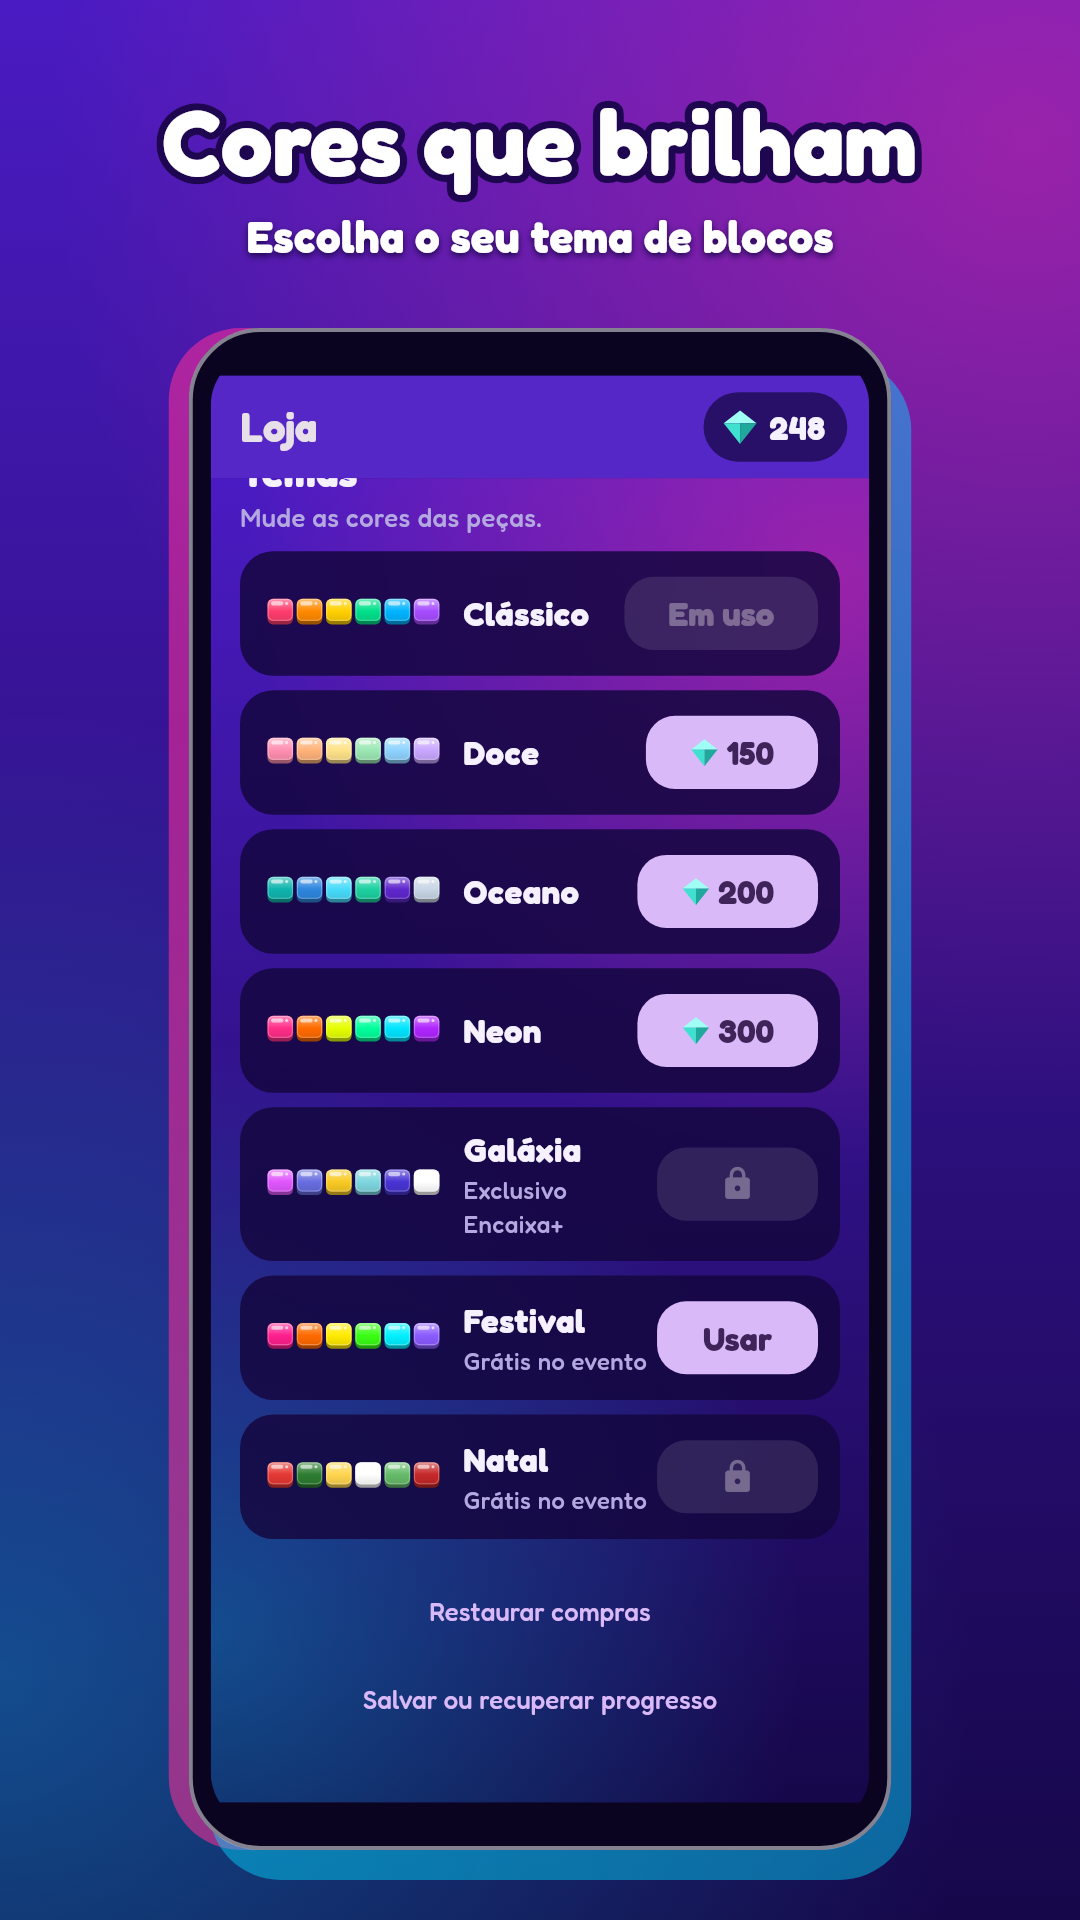
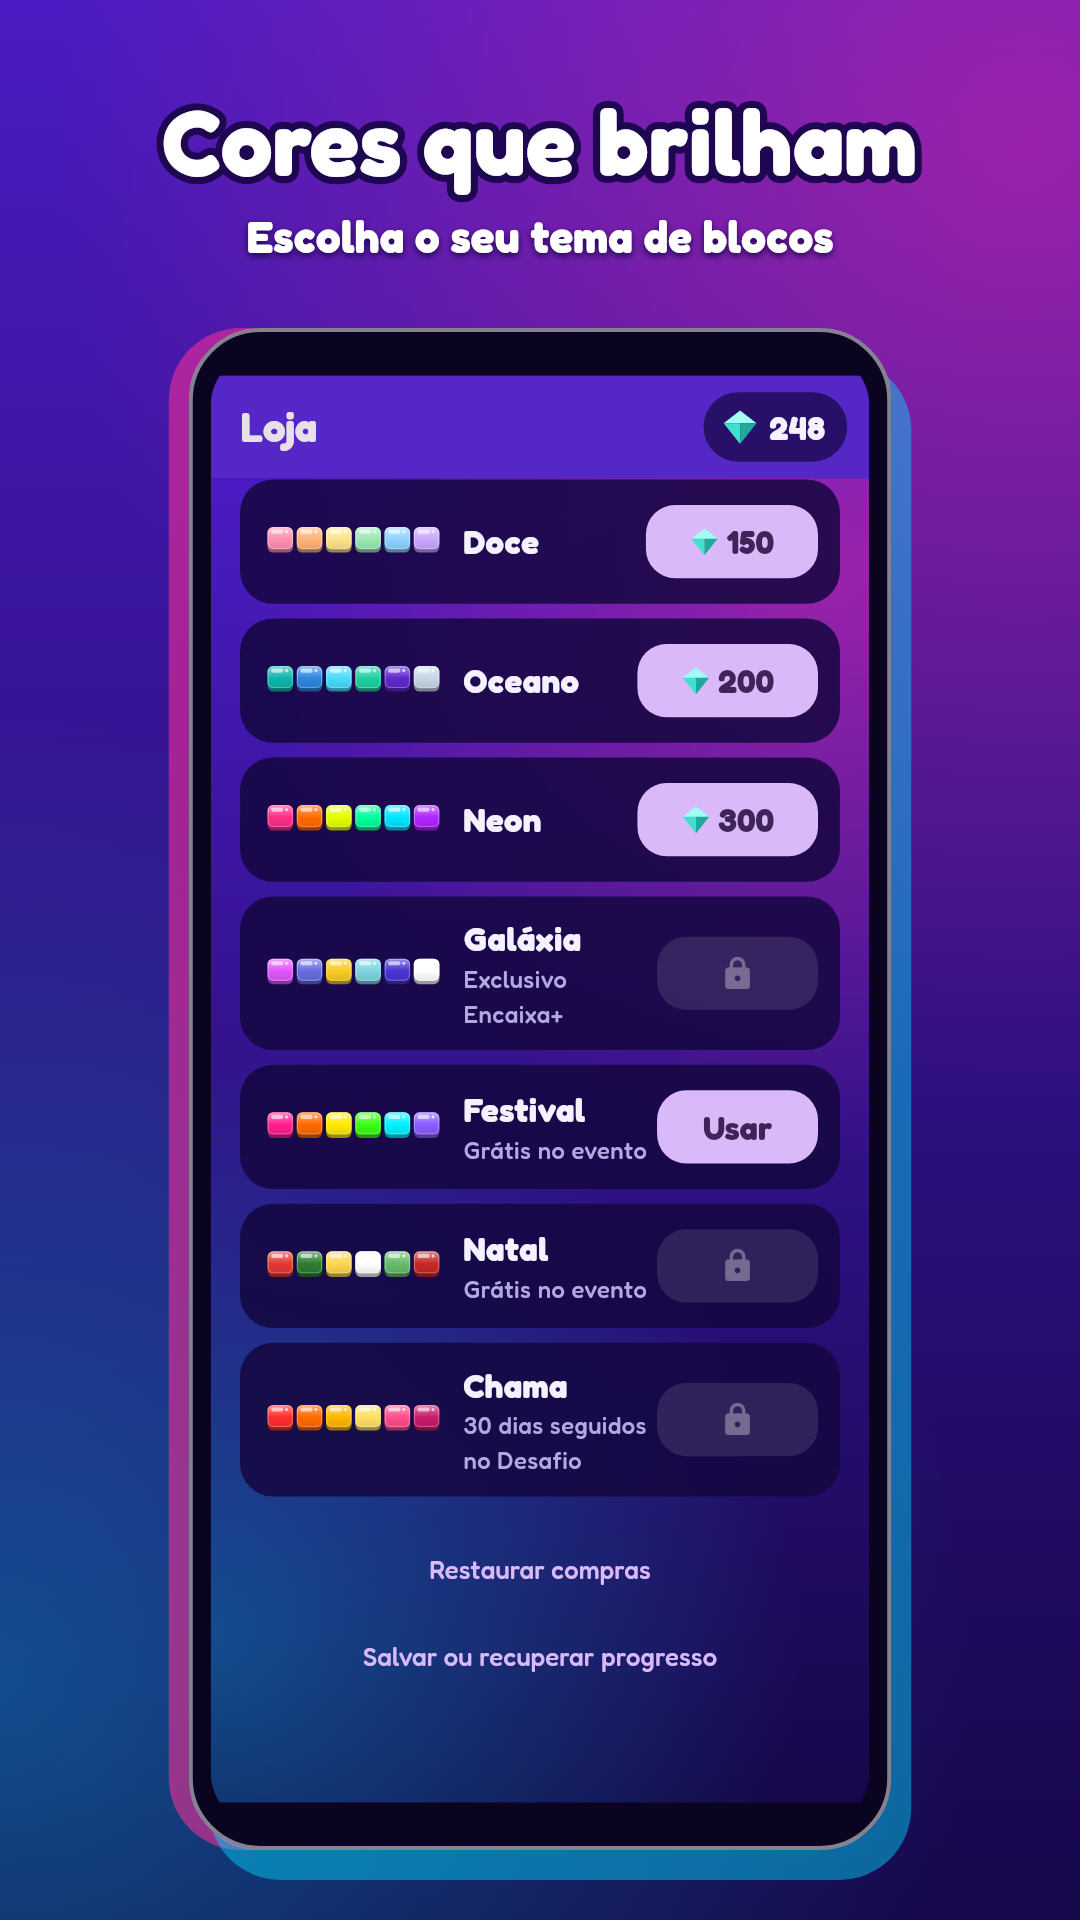
Sequência do Desafio com marcos: diálogo na chama, tema Chama aos 30 dias
- Tocar na chama mostra 3/7/14/30 dias, prêmios e quanto falta
- 30 dias seguidos liberam o tema Chama para sempre (Loja mostra como prêmio)
- Resultado do Desafio avisa o marco; botões do topo compactos para caber em 320 dp com fonte grande
- versionCode 8
- Testes e capturas 24 e 25

Claude-Session: https://claude.ai/code/session_0113qfSKSdakLn1Fz3YtvNms

Changed region(s): [[0.2139, 0.25, 0.7944, 0.9062]]

diff --git a/app/lib/telas/inicio_tela.dart b/app/lib/telas/inicio_tela.dart
@@ -97,16 +97,28 @@ class _InicioTelaState extends State<InicioTela> {
                         Row(
                           children: [
                             if (p.assinante) const _Selo('Encaixa+'),
-                            if (p.sequencia(dia) > 0) ...[const SizedBox(width: 8), _Sequencia(p.sequencia(dia))],
+                            ...[
+                              const SizedBox(width: 8),
+                              _Sequencia(
+                                p.sequencia(dia),
+                                aoTocar: () => showDialog<void>(
+                                  context: context,
+                                  builder: (_) =>
+                                      _DialogoSequencia(dias: p.sequencia(dia), feitoHoje: p.desafioFeito == dia),
+                                ),
+                              ),
+                            ],
                             const Spacer(),
                             IconButton(
                               tooltip: 'Como jogar',
+                              visualDensity: VisualDensity.compact,
                               onPressed: () => _abrir(AjudaTela(servicos: servicos)),
                               icon: const Icon(Icons.help_rounded),
                             ),
                             _BotaoPresente(disponivel: p.presenteDeHoje(dia) > 0, aoTocar: () => _abrirPresente(dia)),
                             IconButton(
                               tooltip: p.somLigado ? 'Desligar som' : 'Ligar som',
+                              visualDensity: VisualDensity.compact,
                               onPressed: p.alternarSom,
                               icon: Icon(p.somLigado ? Icons.volume_up_rounded : Icons.volume_off_rounded),
                             ),
@@ -386,26 +398,117 @@ class _BlocosDeFundo extends CustomPainter {
 }
 
 class _Sequencia extends StatelessWidget {
-  const _Sequencia(this.dias);
+  const _Sequencia(this.dias, {required this.aoTocar});
 
   final int dias;
+  final VoidCallback aoTocar;
 
   @override
   Widget build(BuildContext context) => Tooltip(
     message: 'Dias seguidos no Desafio do dia',
-    child: Container(
-      padding: const EdgeInsets.fromLTRB(8, 4, 12, 4),
-      decoration: BoxDecoration(color: Cores.painel.withValues(alpha: 0.7), borderRadius: BorderRadius.circular(20)),
-      child: Row(
-        mainAxisSize: MainAxisSize.min,
-        children: [
-          Icon(Icons.local_fire_department_rounded, color: Cores.blocos[1], size: 20),
-          const SizedBox(width: 2),
-          Text('$dias', style: const TextStyle(fontSize: 18, fontWeight: FontWeight.w700)),
-        ],
+    child: GestureDetector(
+      onTap: aoTocar,
+      child: Container(
+        padding: const EdgeInsets.fromLTRB(8, 4, 12, 4),
+        decoration: BoxDecoration(color: Cores.painel.withValues(alpha: 0.7), borderRadius: BorderRadius.circular(20)),
+        child: Row(
+          mainAxisSize: MainAxisSize.min,
+          children: [
+            Icon(Icons.local_fire_department_rounded, color: Cores.blocos[1], size: 20),
+            const SizedBox(width: 2),
+            Text('$dias', style: const TextStyle(fontSize: 18, fontWeight: FontWeight.w700)),
+          ],
+        ),
       ),
     ),
   );
+}
+
+/// Marcos da sequência: o que já foi, quanto falta e o prêmio de cada um.
+class _DialogoSequencia extends StatelessWidget {
+  const _DialogoSequencia({required this.dias, required this.feitoHoje});
+
+  final int dias;
+  final bool feitoHoje;
+
+  @override
+  Widget build(BuildContext context) {
+    final proximo = proximoMarco(dias);
+    final chama = TemaDeBlocos.porId('chama');
+    return AlertDialog(
+      backgroundColor: Cores.painel,
+      scrollable: true,
+      title: const FittedBox(
+        fit: BoxFit.scaleDown,
+        child: Text('Sequência do Desafio', textAlign: TextAlign.center),
+      ),
+      content: Column(
+        mainAxisSize: MainAxisSize.min,
+        children: [
+          Row(
+            mainAxisAlignment: MainAxisAlignment.center,
+            children: [
+              Icon(Icons.local_fire_department_rounded, color: Cores.blocos[1], size: 34),
+              Text(
+                ' $dias ${dias == 1 ? 'dia' : 'dias'}',
+                style: const TextStyle(fontSize: 26, fontWeight: FontWeight.w700),
+              ),
+            ],
+          ),
+          const SizedBox(height: 4),
+          Text(
+            proximo == null
+                ? 'Todos os marcos conquistados!'
+                : (feitoHoje
+                      ? 'Hoje já valeu. Faltam ${proximo - dias} para o próximo prêmio.'
+                      : 'Jogue o Desafio de hoje: faltam ${proximo - dias} para o próximo prêmio.'),
+            textAlign: TextAlign.center,
+            style: const TextStyle(fontSize: 14, height: 1.3),
+          ),
+          const SizedBox(height: 12),
+          for (final m in marcosDaSequencia)
+            Container(
+              margin: const EdgeInsets.only(bottom: 6),
+              padding: const EdgeInsets.symmetric(horizontal: 12, vertical: 8),
+              decoration: BoxDecoration(
+                color: dias >= m ? Cores.blocos[3].withValues(alpha: 0.3) : Cores.casa,
+                borderRadius: BorderRadius.circular(14),
+                border: m == proximo ? Border.all(color: Cores.ouro, width: 2) : null,
+              ),
+              child: Row(
+                children: [
+                  Icon(dias >= m ? Icons.check_circle_rounded : Icons.lock_outline_rounded, size: 22),
+                  const SizedBox(width: 8),
+                  Expanded(
+                    child: FittedBox(
+                      fit: BoxFit.scaleDown,
+                      alignment: Alignment.centerLeft,
+                      child: Text('$m dias', style: const TextStyle(fontSize: 16, fontWeight: FontWeight.w700)),
+                    ),
+                  ),
+                  const SizedBox(width: 8),
+                  const IconeGema(tamanho: 16),
+                  Text(' +${premioDaSequencia(m)}', style: const TextStyle(fontSize: 16, fontWeight: FontWeight.w700)),
+                  if (m == chama.marcoDias) ...[
+                    const SizedBox(width: 6),
+                    const Icon(Icons.palette_rounded, size: 20, color: Cores.ouro),
+                    const Text(' Tema', style: TextStyle(fontSize: 13)),
+                  ],
+                ],
+              ),
+            ),
+          const SizedBox(height: 4),
+          const Text(
+            'Pulou um dia? Dá para recuperar a sequência uma vez por semana.',
+            textAlign: TextAlign.center,
+            style: TextStyle(fontSize: 12, color: Cores.textoFraco),
+          ),
+        ],
+      ),
+      actionsAlignment: MainAxisAlignment.center,
+      actions: [TextButton(onPressed: () => Navigator.of(context).pop(), child: const Text('Fechar'))],
+    );
+  }
 }
 
 /// As 3 missões do dia e o baú.
@@ -621,6 +724,7 @@ class _BotaoPresente extends StatelessWidget {
   @override
   Widget build(BuildContext context) => IconButton(
     tooltip: 'Presente do dia',
+    visualDensity: VisualDensity.compact,
     onPressed: aoTocar,
     icon: Badge(
       isLabelVisible: disponivel,

diff --git a/app/test/sequencia_test.dart b/app/test/sequencia_test.dart
@@ -1,0 +1,56 @@
+import 'package:encaixa/jogo/missoes.dart';
+import 'package:encaixa/jogo/temas.dart';
+import 'package:flutter_test/flutter_test.dart';
+import 'package:material_ui/material_ui.dart';
+
+import 'suporte/capturas.dart';
+
+void main() {
+  setUpAll(carregarFontes);
+
+  test('próximo marco da sequência', () {
+    expect(proximoMarco(0), 3);
+    expect(proximoMarco(3), 7);
+    expect(proximoMarco(13), 14);
+    expect(proximoMarco(29), 30);
+    expect(proximoMarco(30), isNull);
+  });
+
+  test('30 dias seguidos liberam o tema Chama para sempre; antes disso ele está bloqueado', () async {
+    final s = await servicosDeTeste(valores: {'sequencia': 29, 'desafioFeito': 20261111});
+    final p = s.progresso;
+    final chama = TemaDeBlocos.porId('chama');
+    expect(chama.marcoDias, 30);
+    expect(p.temTema(chama), isFalse);
+    final gemas = await p.concluirDesafio(20261112, 500);
+    expect(gemas, 5 + 60, reason: '5 do desafio + 60 do marco de 30 dias');
+    expect(p.sequencia(20261112), 30);
+    expect(p.temTema(chama), isTrue);
+    // dias depois, sem jogar, o tema continua
+    expect(p.sequencia(20261120), 0);
+    expect(p.temTema(chama), isTrue);
+  });
+
+  test('marco intermediário (7 dias) paga gemas mas não libera o tema', () async {
+    final s = await servicosDeTeste(valores: {'sequencia': 6, 'desafioFeito': 20261111});
+    final gemas = await s.progresso.concluirDesafio(20261112, 100);
+    expect(gemas, 5 + 15);
+    expect(s.progresso.temTema(TemaDeBlocos.porId('chama')), isFalse);
+  });
+
+  for (final (fonte, nome) in [(1.0, '24-sequencia'), (1.5, '25-sequencia-fonte-grande')]) {
+    testWidgets('diálogo da sequência ($nome)', (tester) async {
+      telaDeCelular(tester, tamanho: const Size(360, 800), fonte: fonte);
+      final s = await servicosDeTeste(valores: {'sequencia': 5, 'desafioFeito': 20261111});
+      await tester.pumpWidget(appDeTeste(s));
+      await tester.pump(const Duration(seconds: 1));
+      await tester.tap(find.byIcon(Icons.local_fire_department_rounded).first);
+      await tester.pump(const Duration(seconds: 1));
+      await tester.pump(const Duration(seconds: 1));
+      expect(find.text('Sequência do Desafio'), findsOneWidget);
+      expect(find.textContaining('próximo prêmio'), findsOneWidget);
+      expect(tester.takeException(), isNull);
+      await capturar(tester, nome);
+    });
+  }
+}

diff --git a/app/lib/telas/loja_tela.dart b/app/lib/telas/loja_tela.dart
@@ -254,7 +254,7 @@ class _ItemTema extends StatelessWidget {
 
   @override
   Widget build(BuildContext context) {
-    final bloqueado = !temTema && (tema.assinante || tema.evento != null);
+    final bloqueado = !temTema && (tema.assinante || tema.evento != null || tema.marcoDias != null);
     return Container(
       padding: const EdgeInsets.fromLTRB(14, 10, 12, 10),
       decoration: BoxDecoration(color: Cores.painel.withValues(alpha: 0.85), borderRadius: BorderRadius.circular(18)),
@@ -267,9 +267,11 @@ class _ItemTema extends StatelessWidget {
               crossAxisAlignment: CrossAxisAlignment.start,
               children: [
                 Text(tema.nome, style: const TextStyle(fontSize: 18, fontWeight: FontWeight.w700)),
-                if (tema.assinante || tema.evento != null)
+                if (tema.assinante || tema.evento != null || tema.marcoDias != null)
                   Text(
-                    tema.assinante ? 'Exclusivo Encaixa+' : 'Grátis no evento',
+                    tema.assinante
+                        ? 'Exclusivo Encaixa+'
+                        : (tema.marcoDias != null ? '${tema.marcoDias} dias seguidos no Desafio' : 'Grátis no evento'),
                     style: const TextStyle(color: Cores.textoFraco, fontSize: 13),
                   ),
               ],

diff --git a/app/lib/jogo/temas.dart b/app/lib/jogo/temas.dart
@@ -2,7 +2,15 @@ import 'dart:ui' show Color;
 
 /// Visual das peças (6 cores). Itens cosméticos: gemas, assinatura ou evento.
 class TemaDeBlocos {
-  const TemaDeBlocos(this.id, this.nome, this.cores, {this.preco = 0, this.assinante = false, this.evento});
+  const TemaDeBlocos(
+    this.id,
+    this.nome,
+    this.cores, {
+    this.preco = 0,
+    this.assinante = false,
+    this.evento,
+    this.marcoDias,
+  });
 
   final String id;
   final String nome;
@@ -16,6 +24,9 @@ class TemaDeBlocos {
 
   /// Id do evento que libera o tema de graça enquanto durar.
   final String? evento;
+
+  /// Prêmio de sequência: libera depois de tantos dias seguidos no Desafio do dia (fica para sempre).
+  final int? marcoDias;
 
   static const classico = TemaDeBlocos('classico', 'Clássico', [
     Color(0xFFFF3D6E),
@@ -76,6 +87,14 @@ class TemaDeBlocos {
       Color(0xFF66BB6A),
       Color(0xFFC62828),
     ], evento: 'natal-2026'),
+    TemaDeBlocos('chama', 'Chama', [
+      Color(0xFFFF2D2D),
+      Color(0xFFFF6A00),
+      Color(0xFFFFB800),
+      Color(0xFFFFE066),
+      Color(0xFFFF4D8D),
+      Color(0xFFC81D6B),
+    ], marcoDias: 30),
   ];
 
   static TemaDeBlocos porId(String? id) => todos.firstWhere((t) => t.id == id, orElse: () => classico);

diff --git a/app/lib/servicos/progresso.dart b/app/lib/servicos/progresso.dart
@@ -131,6 +131,10 @@ class Progresso extends ChangeNotifier {
       await _prefs.setInt('sequencia', dias);
       gemasGanhas = 5 + premioDaSequencia(dias);
       await contarMissao(dia, TipoMissao.desafio, 1);
+      // Prêmio de 30 dias: tema exclusivo, guardado para sempre.
+      for (final t in TemaDeBlocos.todos) {
+        if (t.marcoDias != null && dias >= t.marcoDias!) await guardarTema(t);
+      }
     }
     await _prefs.setInt('desafioFeito', dia);
     await _prefs.setInt('desafioPontos', pontos);
@@ -233,7 +237,7 @@ class Progresso extends ChangeNotifier {
 
   /// Tem o tema? (grátis, comprado, assinante ou evento em andamento)
   bool temTema(TemaDeBlocos t, {String? eventoAtivo}) =>
-      (t.preco == 0 && !t.assinante && t.evento == null) ||
+      (t.preco == 0 && !t.assinante && t.evento == null && t.marcoDias == null) ||
       (_prefs.getStringList('temas') ?? []).contains(t.id) ||
       (t.assinante && assinante) ||
       (t.evento != null && t.evento == eventoAtivo);

diff --git a/app/lib/telas/jogo_tela.dart b/app/lib/telas/jogo_tela.dart
@@ -1000,6 +1000,9 @@ class _JogoTelaState extends State<JogoTela> {
           [
             'Desafio do dia concluído!',
             if (_gemasDesafio > 0) '+$_gemasDesafio gemas',
+            if (premioDaSequencia(_s.progresso.sequencia(_dia)) > 0 && _gemasDesafio > 0)
+              'Marco de ${_s.progresso.sequencia(_dia)} dias! 🎉',
+            if (_s.progresso.sequencia(_dia) == 30 && _gemasDesafio > 0) 'Tema Chama liberado na Loja!',
             '🔥 ${_s.progresso.sequencia(_dia)} ${_s.progresso.sequencia(_dia) == 1 ? 'dia' : 'dias seguidos'}',
           ].join('\n'),
           textAlign: TextAlign.center,

diff --git a/app/lib/jogo/missoes.dart b/app/lib/jogo/missoes.dart
@@ -85,6 +85,17 @@ int premioDaSequencia(int dias) => switch (dias) {
   _ => 0,
 };
 
+/// Dias que dão prêmio na sequência, em ordem.
+const marcosDaSequencia = [3, 7, 14, 30];
+
+/// Próximo marco da sequência (o primeiro maior que [dias]), ou `null` depois do último.
+int? proximoMarco(int dias) {
+  for (final m in marcosDaSequencia) {
+    if (m > dias) return m;
+  }
+  return null;
+}
+
 /// Dia anterior no formato aaaammdd.
 int diaAnterior(int dia) {
   final d = DateTime.utc(dia ~/ 10000, dia ~/ 100 % 100, dia % 100).subtract(const Duration(days: 1));

diff --git a/docs/JOGO.md b/docs/JOGO.md
@@ -116,3 +116,8 @@ Desligado por padrão. Em **Como jogar** há o interruptor "Lembrete do Desafio"
 notificação (Android 13+) e agenda **uma** notificação local para as 19h (horário do celular). Ela é reagendada a cada
 abertura do jogo e ao concluir o Desafio: se hoje já foi jogado ou já passou das 19h, vai para amanhã. Alarme inexato
 (pode variar alguns minutos), sem servidor. **Ainda não testado em celular real** (issue #14).
+
+## Sequência do Desafio (marcos)
+Tocar na chama (canto da tela inicial) abre os marcos: 3 dias (+5 gemas), 7 (+15), 14 (+30) e 30 (+60 e o tema **Chama**,
+que fica para sempre na Loja). O marco aparece no resultado do Desafio. Pulou um dia: dá para recuperar a sequência uma
+vez por semana (anúncio ou gemas).
